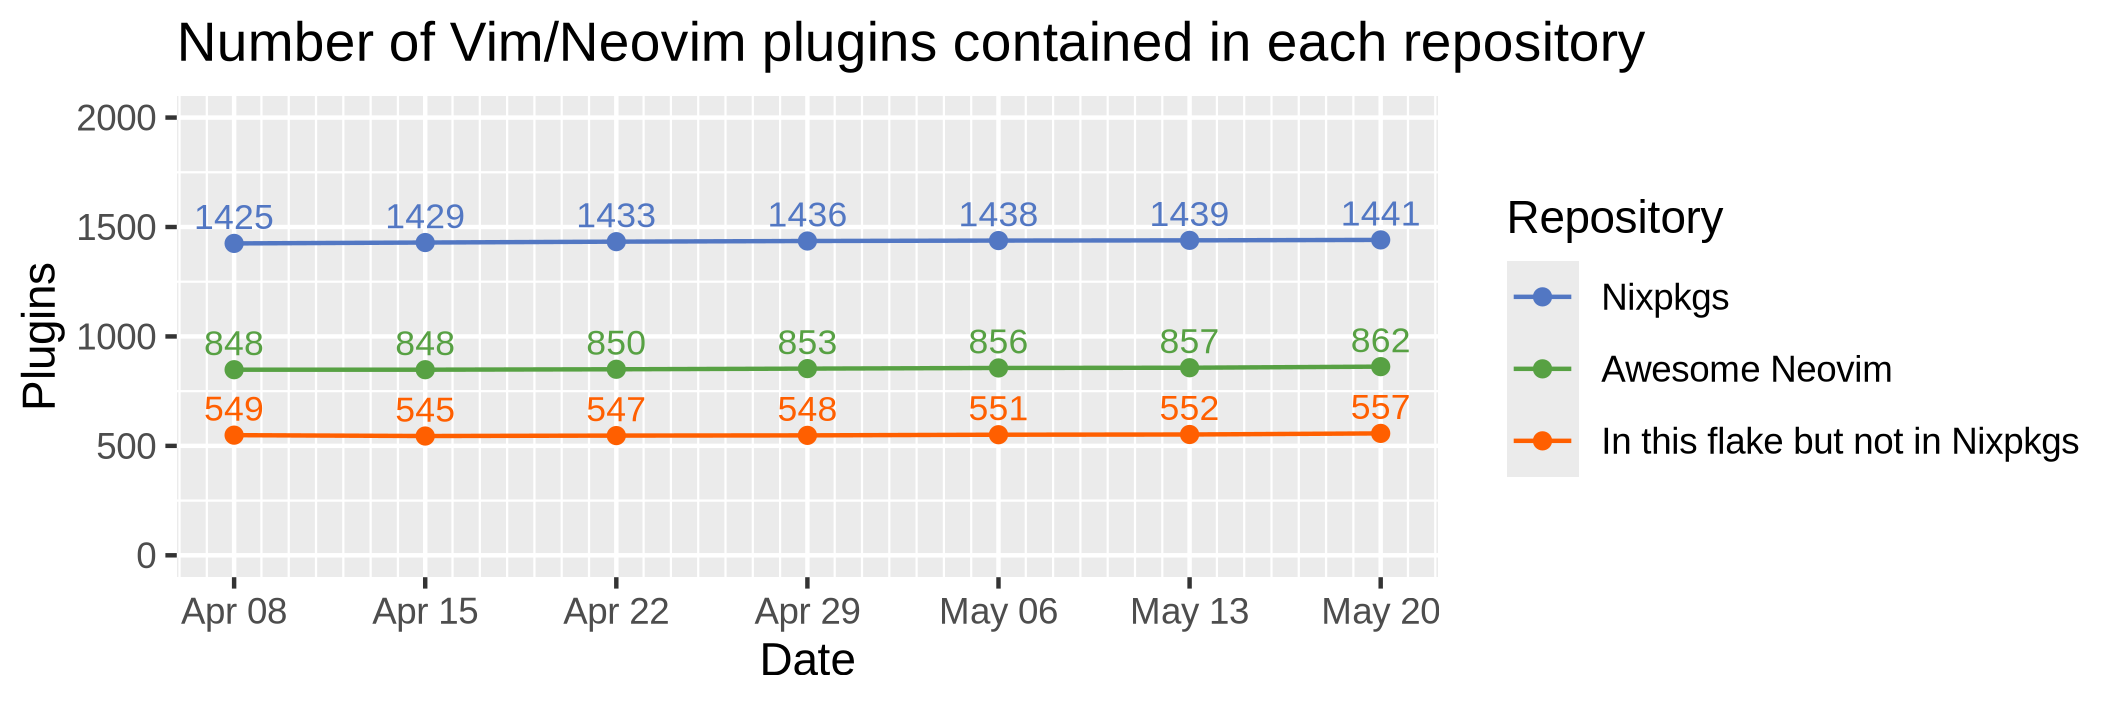
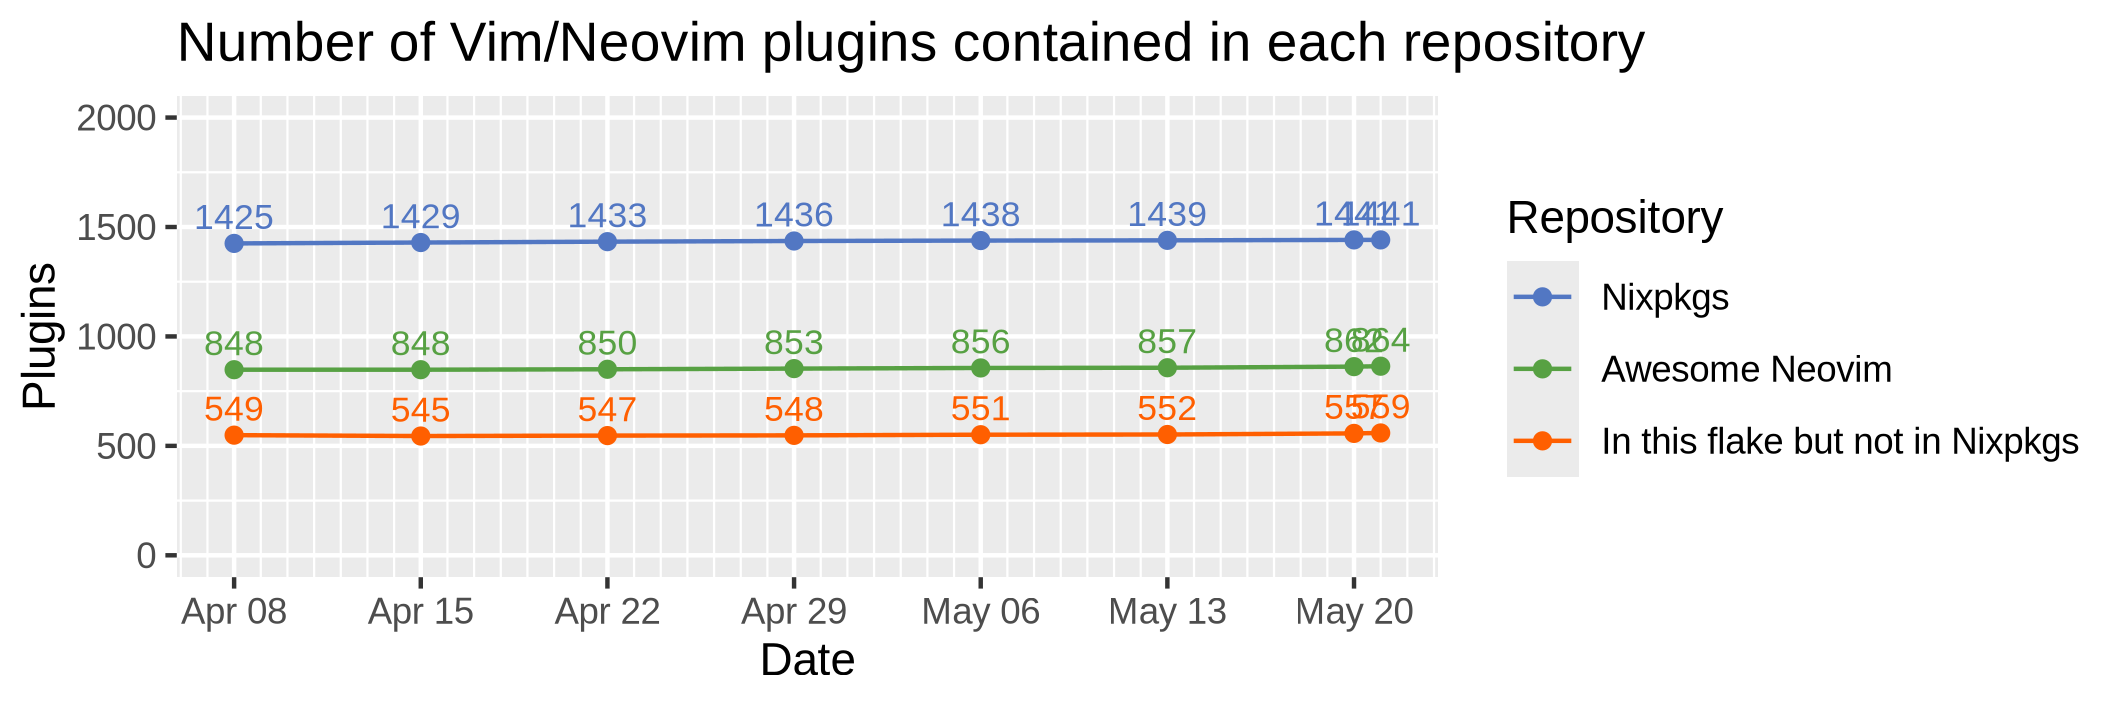
auto: update vim plugins

diff --git a/README.md b/README.md
@@ -8,7 +8,7 @@ Nix flake of Awesome Neovim plugins.
 
 [b1]: https://img.shields.io/github/actions/workflow/status/m15a/flake-awesome-neovim-plugins/check.yml?style=flat-square&logo=github&label=CI
 [b2]: https://github.com/m15a/flake-awesome-neovim-plugins/actions/workflows/check.yml
-[b3]: https://img.shields.io/badge/Awesome_Neovim_plugins-862-57A143?style=flat-square
+[b3]: https://img.shields.io/badge/Awesome_Neovim_plugins-864-57A143?style=flat-square
 [b4]: https://img.shields.io/endpoint?url=https://flakehub.com/f/m15a/flake-awesome-neovim-plugins/badge&style=flat-square
 [b5]: https://flakehub.com/flake/m15a/flake-awesome-neovim-plugins
 
